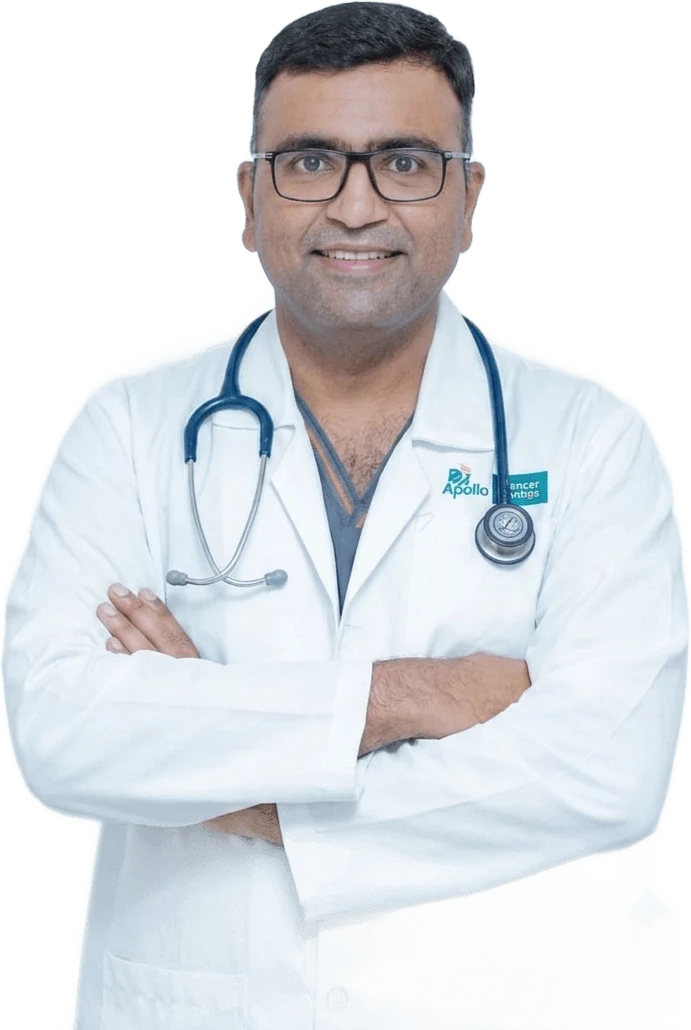
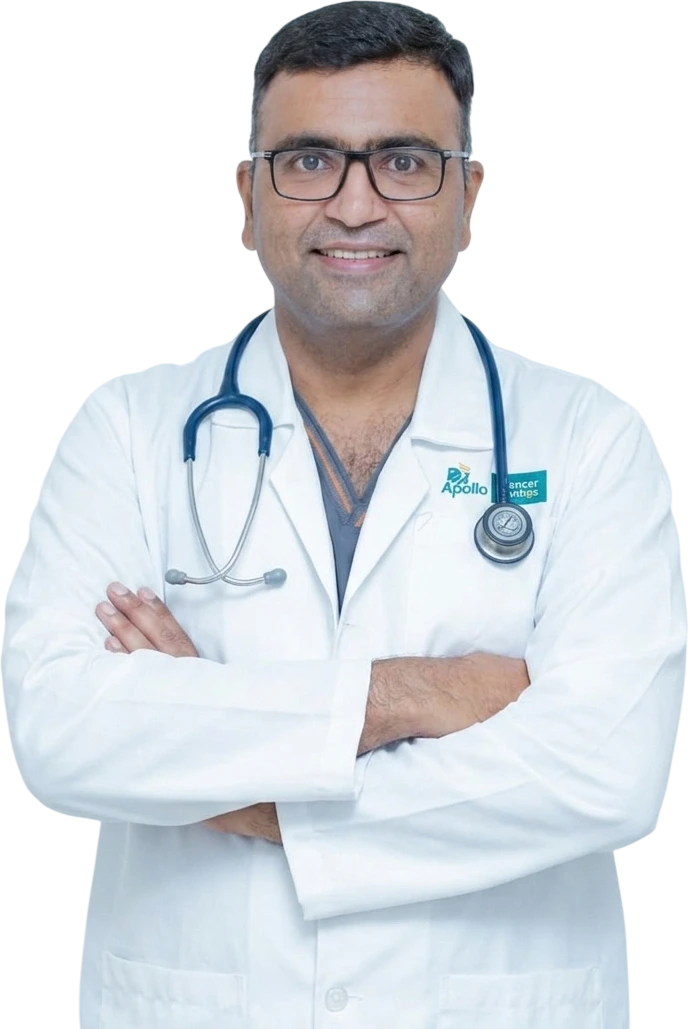
fix finaly  hero section image  and liquid glass

diff --git a/src/components/Nav.tsx b/src/components/Nav.tsx
@@ -1,6 +1,7 @@
 import { useEffect, useRef, useState } from "react";
 import {
   motion,
+  useMotionTemplate,
   useMotionValue,
   useReducedMotion,
   useSpring,
@@ -87,8 +88,17 @@ export default function Nav() {
   const logoHeight = useTransform(y, RANGE, [48, 40]);
   const barShadow = useTransform(y, RANGE, [
     "0 2px 12px rgba(10,35,66,0.08), 0 1px 3px rgba(10,35,66,0.06)",
-    "0 4px 24px rgba(10,35,66,0.12), 0 2px 6px rgba(10,35,66,0.08)",
+    "0 8px 32px rgba(10,35,66,0.16), 0 2px 8px rgba(10,35,66,0.1)",
   ]);
+
+  // --- Liquid glass surface: heavy blur + saturation so whatever scrolls
+  // underneath actually reads through the bar (that's the "liquid" part —
+  // a flat translucent white is just a dimmer solid bar), gently deepening
+  // as more page content passes behind it. -------------------------------
+  const glassBlurPx = useTransform(y, RANGE, [18, 26]);
+  const glassSaturate = useTransform(y, RANGE, [160, 180]);
+  const glassBackdrop = useMotionTemplate`blur(${glassBlurPx}px) saturate(${glassSaturate}%)`;
+  const glassBg = useTransform(y, RANGE, ["rgba(255,255,255,0.5)", "rgba(255,255,255,0.68)"]);
 
   useEffect(() => {
     const ids = LINKS.map(([, h]) => h.slice(1));
@@ -148,11 +158,43 @@ export default function Nav() {
         className="fixed inset-x-0 top-0 z-[900] px-4 pt-3"
         id="nav"
       >
-        {/* Floating white card */}
+        {/* Floating liquid-glass card */}
         <motion.div
-          className="w-[min(100%,1600px)] mx-auto bg-white rounded-2xl border border-gray-100"
+          className="relative w-[min(100%,1600px)] mx-auto rounded-2xl overflow-hidden"
           style={{ boxShadow: barShadow }}
         >
+          {/* Glass surface — heavy blur/saturate so page content actually
+              shows through, tinted rather than a flat translucent white. */}
+          <motion.div
+            aria-hidden
+            className="absolute inset-0 -z-20"
+            style={{ backgroundColor: glassBg, backdropFilter: glassBackdrop, WebkitBackdropFilter: glassBackdrop }}
+          />
+          {/* Specular highlight — a soft diagonal sheen, like light catching
+              the top-left of a curved glass surface. Purely decorative,
+              never animated (a moving highlight reads as a loading shimmer,
+              not glass). */}
+          <div
+            aria-hidden
+            className="absolute inset-0 -z-10 pointer-events-none"
+            style={{
+              background:
+                "linear-gradient(135deg, rgba(255,255,255,.65) 0%, rgba(255,255,255,.22) 22%, rgba(255,255,255,0) 45%), radial-gradient(120% 180% at 15% -40%, rgba(255,255,255,.5), transparent 60%)",
+            }}
+          />
+          {/* Glass edge lighting — bright hairline on top where light would
+              catch the rim, soft dark hairline underneath for depth, plus a
+              faint outer ring so the card reads as a solid object, not a
+              flat cutout. All inset box-shadows: paint-only, no layout. */}
+          <div
+            aria-hidden
+            className="absolute inset-0 -z-10 rounded-2xl pointer-events-none"
+            style={{
+              boxShadow:
+                "inset 0 1px 0 rgba(255,255,255,.85), inset 0 0 0 1px rgba(255,255,255,.4), inset 0 -1px 1px rgba(10,35,66,.05)",
+            }}
+          />
+
           {/* Main nav */}
           <motion.div
             className="w-full px-6 flex xl:grid justify-between xl:justify-normal xl:grid-cols-[1fr_auto_1fr] items-center gap-6"

diff --git a/src/components/Hero.tsx b/src/components/Hero.tsx
@@ -143,8 +143,8 @@ export default function Hero() {
           <img
             src="/brand/dr-ram-portrait.webp"
             alt="Dr. T. Ramkumar, Consultant Gastrointestinal Surgeon"
-            width="691"
-            height="1030"
+            width="689"
+            height="1029"
             fetchPriority="high"
             className="relative block w-full h-auto object-contain max-h-[90vh] mx-auto filter drop-shadow-[0_18px_40px_rgba(0,0,0,0.4)]"
           />